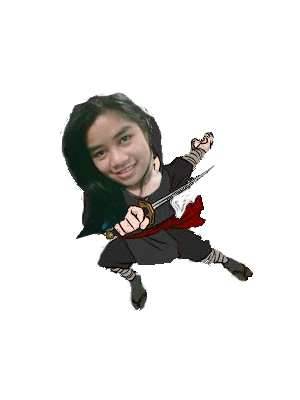
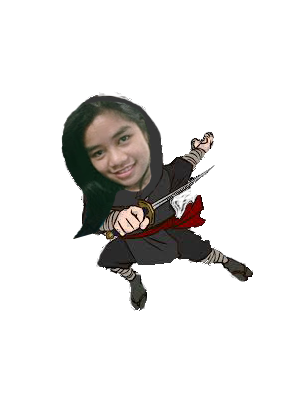
Select Character added for fun

diff --git a/index.html b/index.html
@@ -208,6 +208,33 @@
              }
             });
 
+            $("#character").change(function () {
+            var avatar = $("#character").val();
+
+            if (avatar == "lizette") {
+            $('#ninjaja').css('background-image', 'url(images/ninjaliz.png)');
+            }
+
+            if (avatar == "bebbb") {
+            $('#ninjaja').css('background-image', 'url(images/ninjabeb.png)');
+            }
+
+            if (avatar == "reina") {
+            $('#ninjaja').css('background-image', 'url(images/ninjareina.png)');
+            }
+            if (avatar == "alex") {
+            $('#ninjaja').css('background-image', 'url(images/ninjalex.png)');
+            }
+
+            });
+
+            $(document).ready(function(){
+               $("#character").change(function(){
+                 $("img[name=ninjaja]").attr("src",$(this).val());
+
+               });
+
+            });
          });
 
     </script>
@@ -217,8 +244,20 @@
     <div class="container">
       <div class="row row1">
         <div class="col-md-6">
-
-          <button id = "btnReset" style="margin-top: 10px;background-color: #F78956;border-color: #F24629;" type="button" class="btn btn-primary btn-lg">RESET</button>
+          <div class="col-md-5">
+            <button id = "btnReset" style="margin-top: 10px;background-color: #F78956;border-color: #F24629;" type="button" class="btn btn-primary btn-lg">RESET</button>
+          </div>
+          <div class="col-md-4">
+            <div class="form-group">
+            <label for="sel1">Select character:</label>
+            <select class="form-control" id="character" name = "character">
+              <option value="images/ninjaliz.png" selected>lizette</option>
+              <option value="images/ninjabeb.png">bebbb</option>
+              <option value="images/ninjareina.png">reina</option>
+              <option value="images/ninjalex.png">alex</option>
+            </select>
+            </div>
+          </div>
         </div>
         <div class="col-md-6">
           <div class="form-group">
@@ -228,8 +267,7 @@
             <label for="attempts">ATTEMPTS:</label><input type="attempts" class="form-control" id="attempts">
           </div>
         </div>
-
-      </div>
+    </div>
       <!-- row row 1  -->
 
       <div class="row row2">
@@ -253,7 +291,7 @@
       <div class="row row3">
         <div class="ninjahere">
           <img style="width : 100% ; height : 100%" src="images/bg.png" alt="" />
-          <img style="position: absolute; left : 15% ; top :220px" src="images/ninja.png" alt="" / id = "ninjaja">
+          <img name = "ninjaja" style="position: absolute; left : 15% ; top :150px" src="" alt="" / >
             <!-- <img id = "ninja" src='images/ninja.png' style="width : 200px; height : 200px;" alt='ninja'> -->
         </div>
       </div>

diff --git a/css/style.css b/css/style.css
@@ -19,10 +19,6 @@ div{
   font-size: 18px;
 }
 
-.row3{
-  background-image: url("images/bg.png");
-  background-color: skyblue;
-}
 .col-md-3{
   align-items: center;
 }
@@ -42,3 +38,6 @@ div{
   font-size: 15px;
   font-weight: 700;
 }
+/*.row3 img #ninjaja{
+  scr: url("images/ninjalex.png") no-repeat;
+}*/
